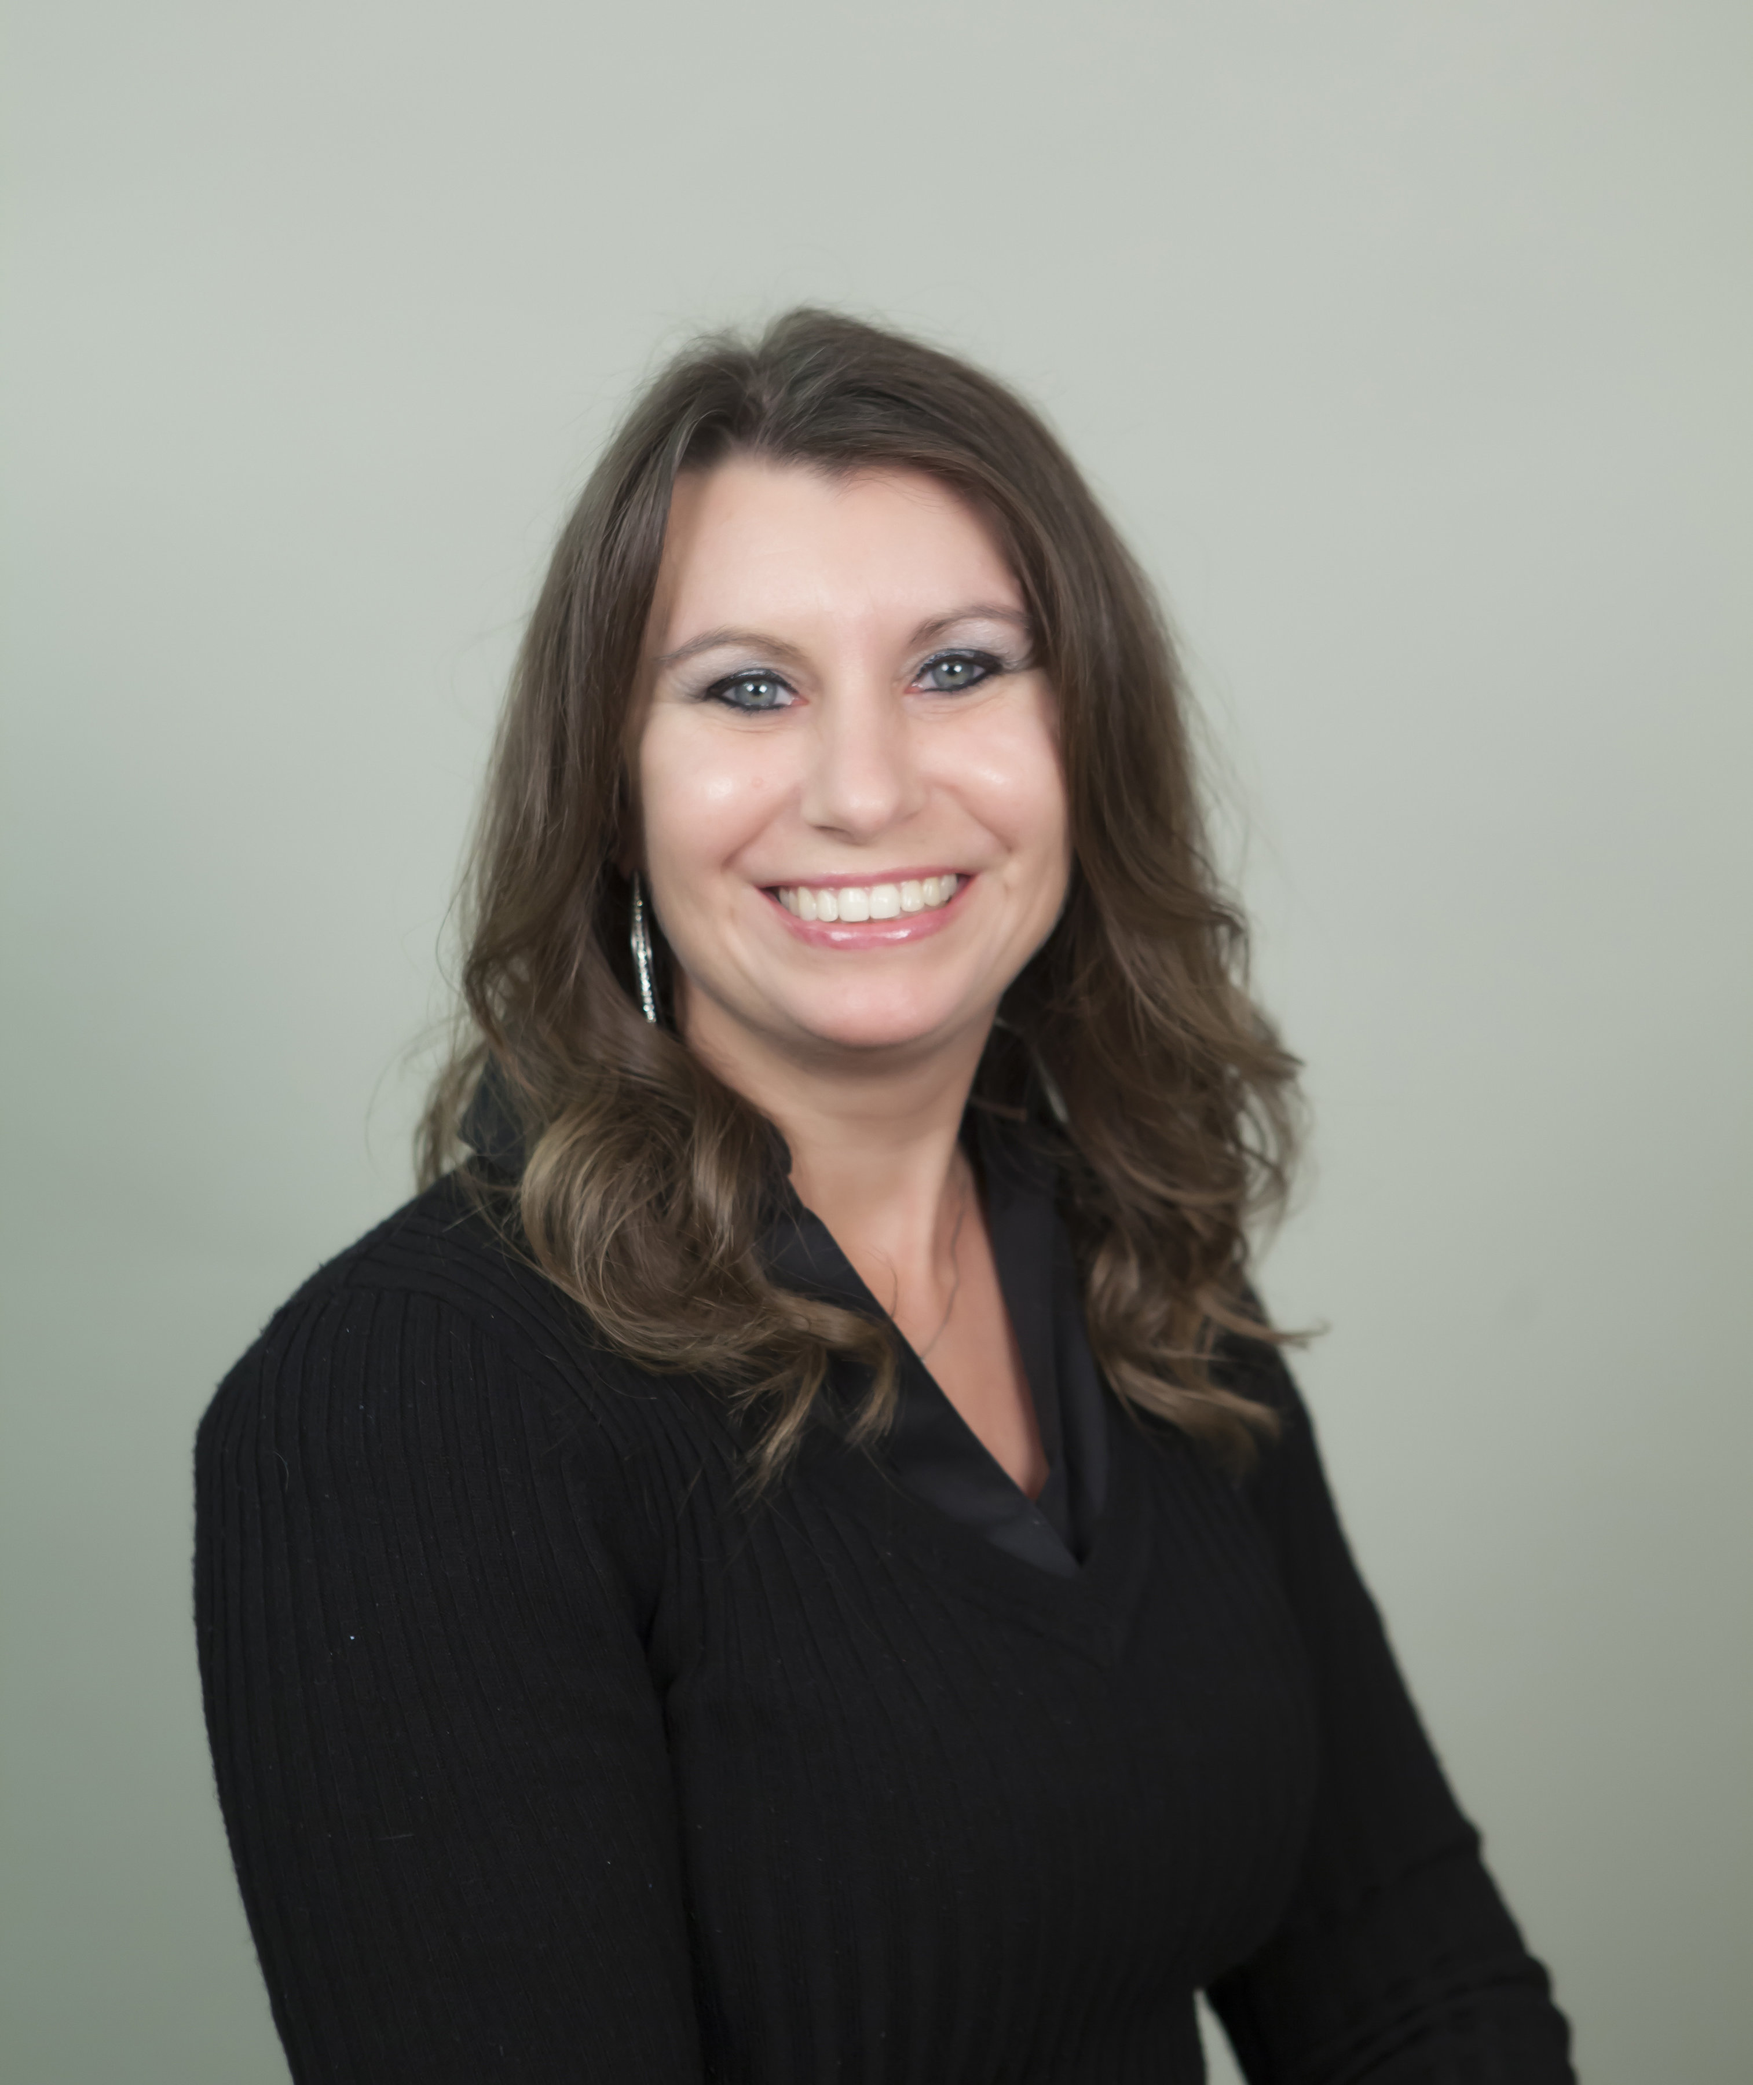
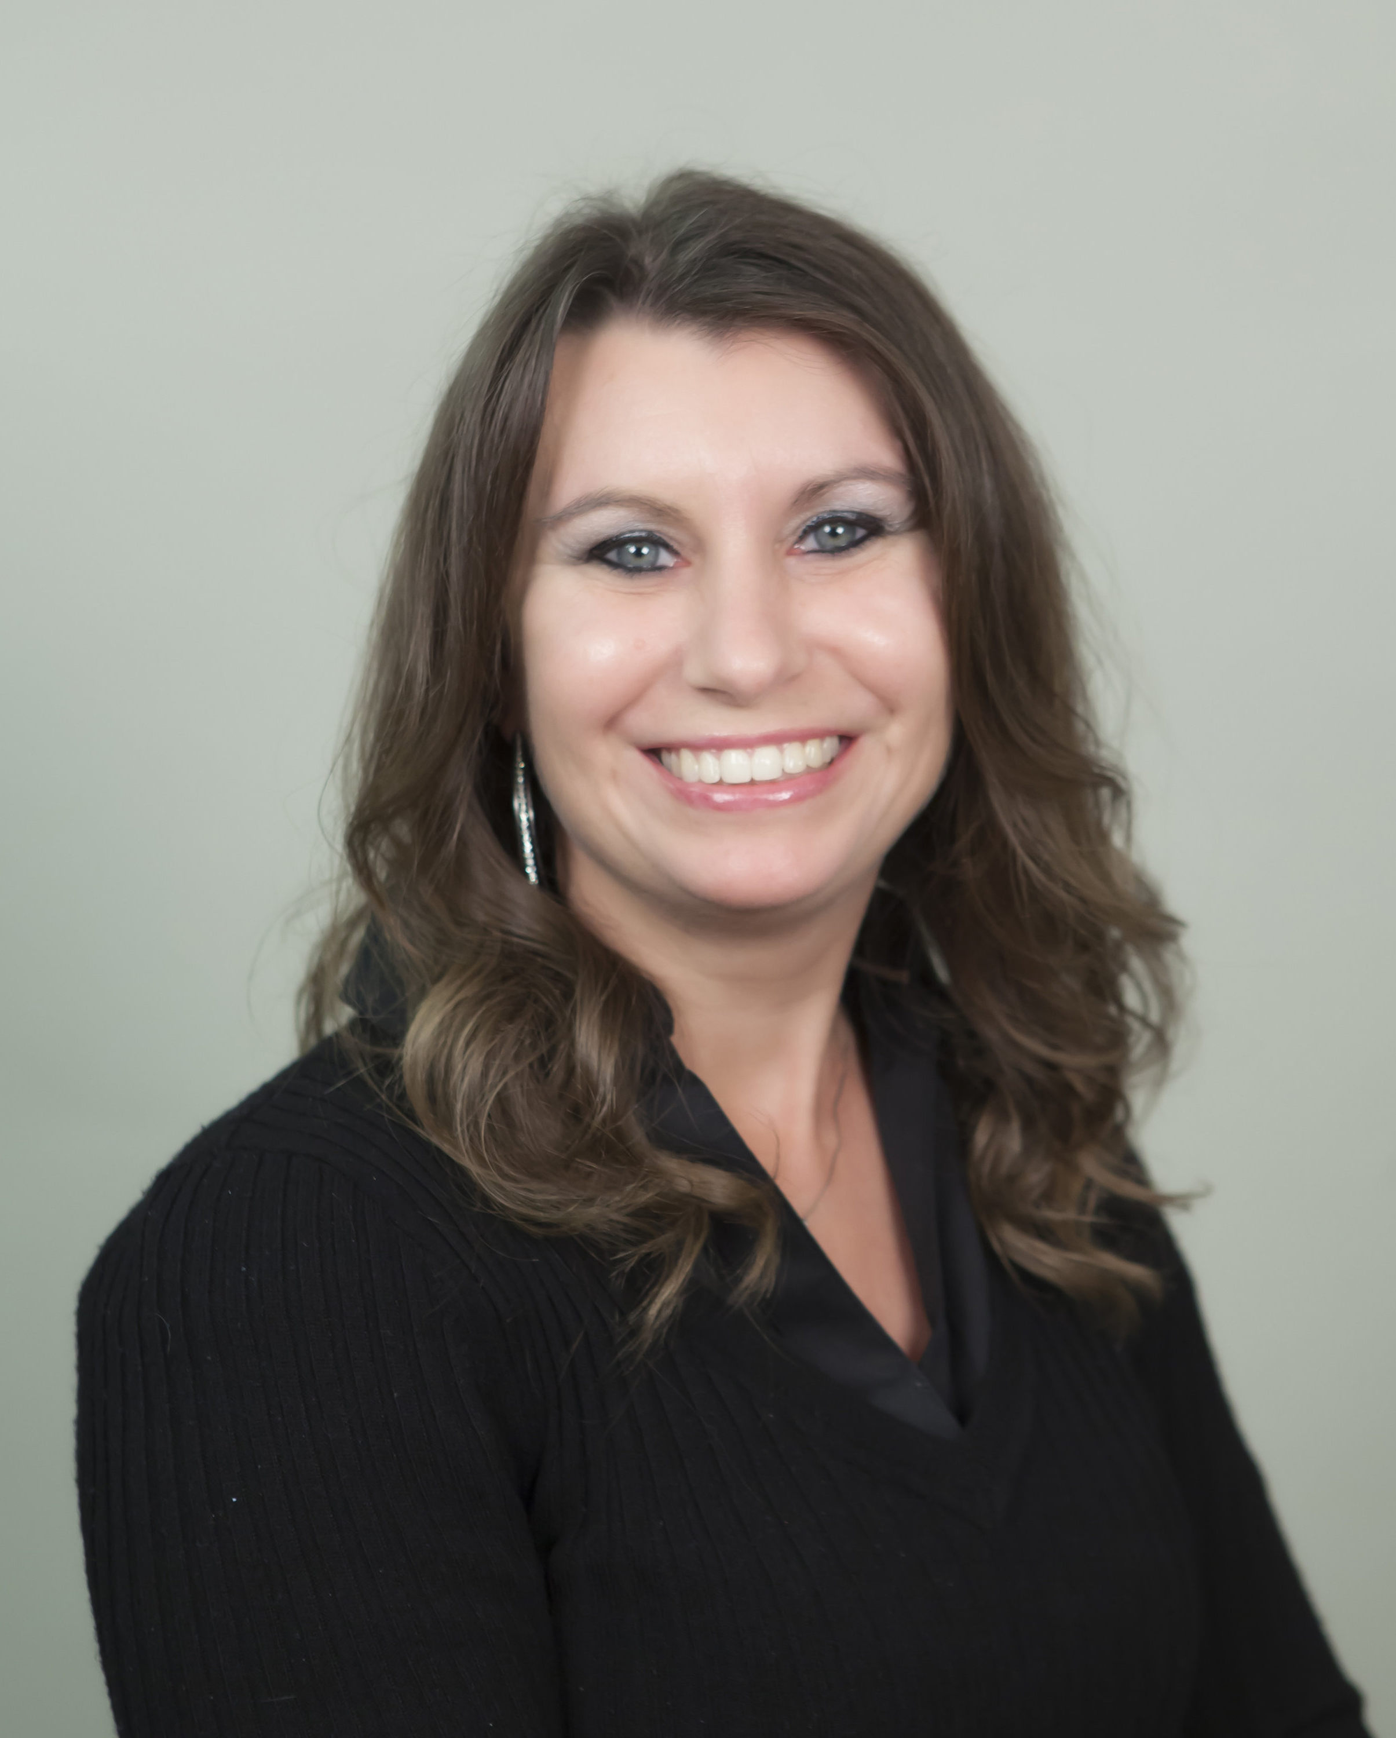
edited images. added placeholder for new employees

Changed region(s): [[0.0311, 0.093, 1.0, 1.0], [0.6846, 0.961, 0.7158, 1.0], [0.9959, 0.868, 1.0, 0.899]]

diff --git a/src/partials/meet-the-team.html b/src/partials/meet-the-team.html
@@ -1,5 +1,6 @@
 <div class="team-callout">
-  <div class="grid-x-space">    
+  <div class="grid-x-space">
+
     <div class="card-team-profile">
       <div class="card-team-profile-blank"></div>
       <div class="card-team-profile-content card-section">
@@ -35,7 +36,18 @@
         <p class="card-team-profile-info">Jennifer has had a career in Orthodontics since 1996. She has a Bachelor of Science degree in general studies with a minor in psychology from Indiana University Southeast. She has been married to Craig since 2007 and they have three children: Shelby, Isaiah, and Emmett. She also has a sweet Puggle named Lilly. She loves to paint, craft and party plan.</p>
       </div>
     </div>
-
+<div class="card-team-profile">
+      <div class="card-team-profile-blank"></div>
+      <div class="card-team-profile-content card-section">
+        <div class="card-team-profile-avatar">
+          <img src="{{root}}assets/img/headshots/kerry-hines-13.jpg" alt="Profile photo of Melissa Coffman">
+        </div>
+        <p class="card-team-profile-name">Kerry Hines</p>
+        <p class="card-team-profile-status">Orthodontic Technician</p>
+        <p class="card-team-profile-info">ipsum</p>
+      </div>
+    </div>
+    
     <div class="card-team-profile">
       <div class="card-team-profile-blank"></div>
       <div class="card-team-profile-content card-section">
@@ -47,5 +59,8 @@
         <p class="card-team-profile-info">Melissa has had a career in Dentistry since 2008. She is a graduate of Dental Careers of Southern Indiana. Melissa has been married to Nicholas since 2011 and is a mommy of two precious children: Blake and Lucy. She enjoys crafting, baking and party planning.</p>
       </div>
     </div>
+
+    
+
   </div>
 </div>
